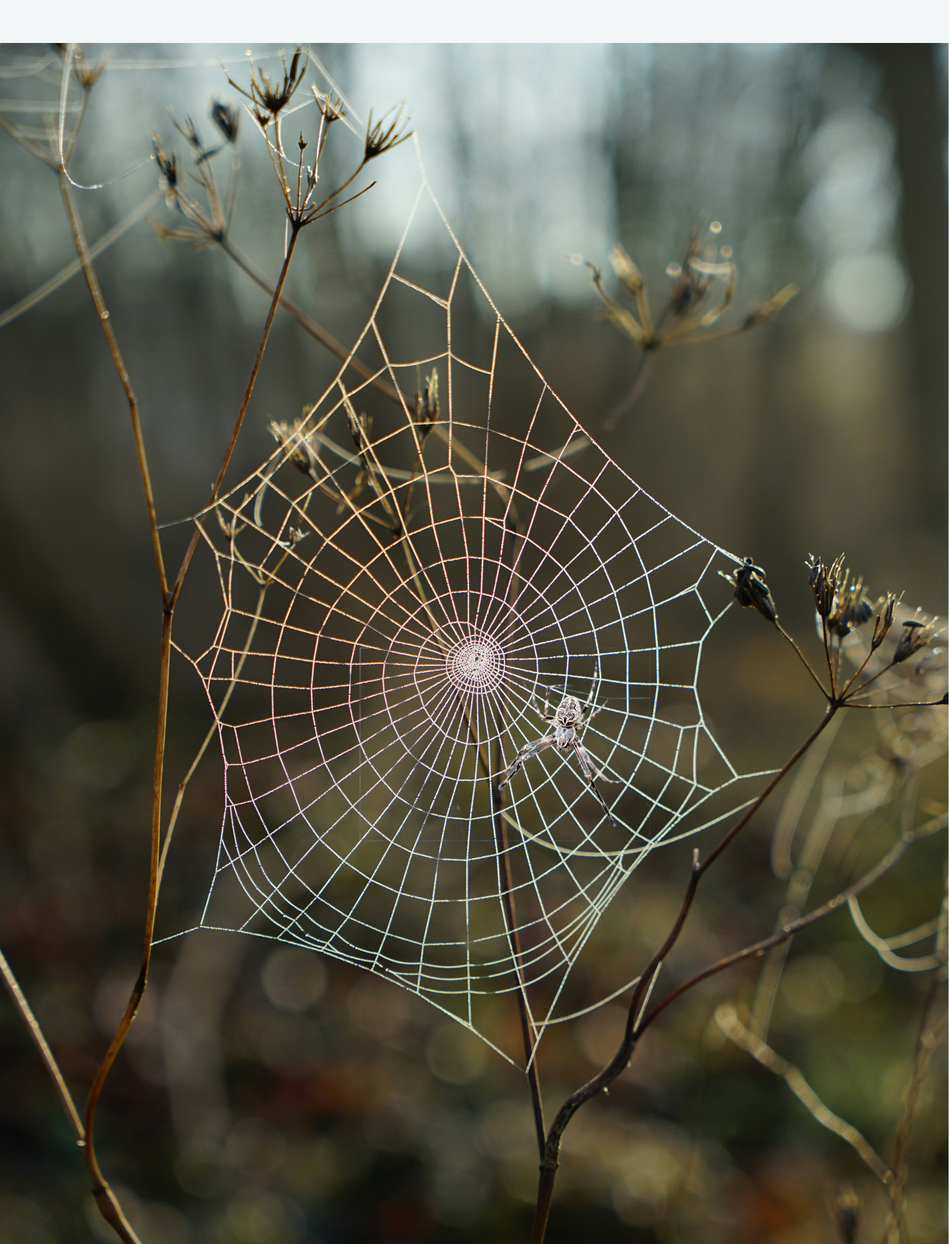
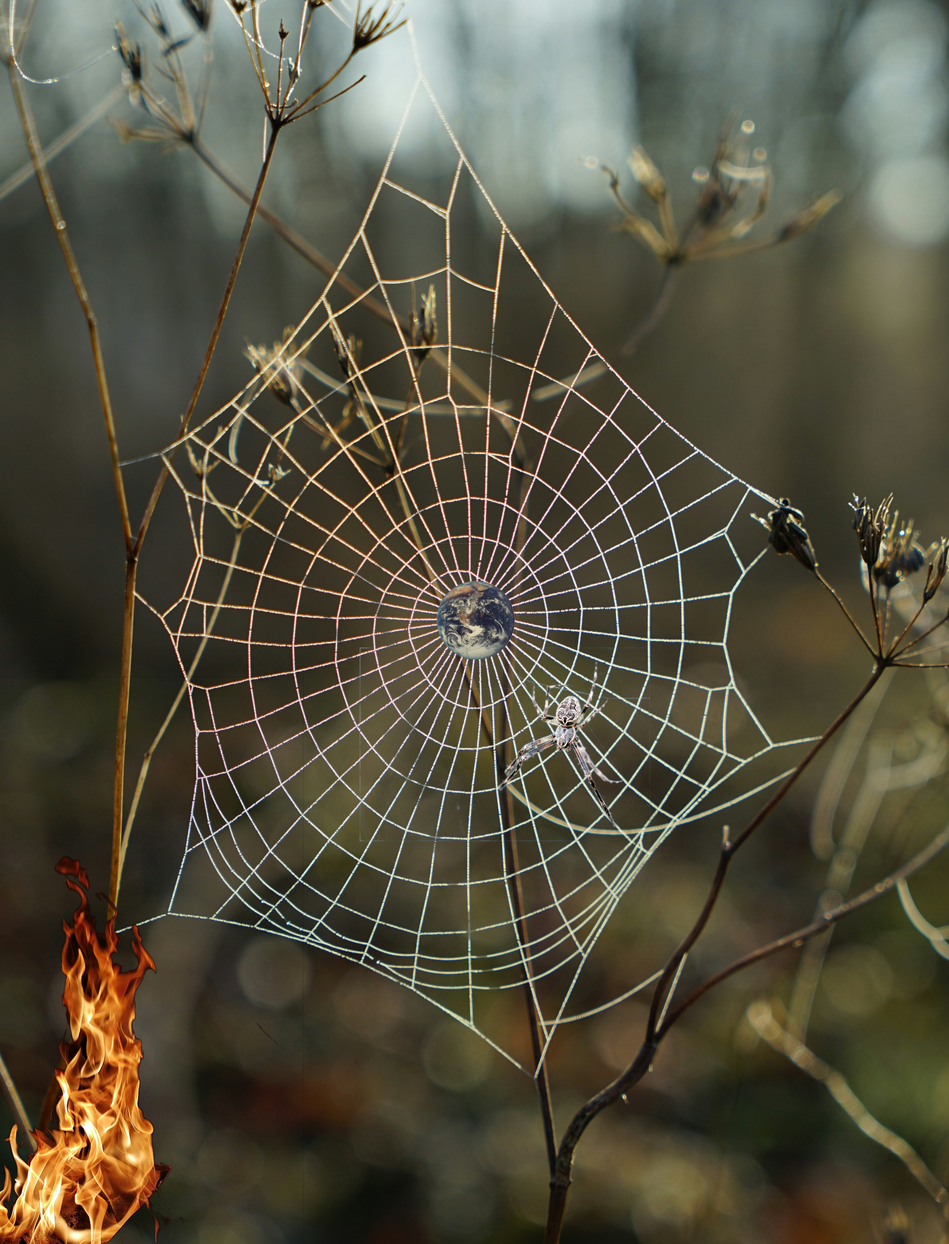
Add Fire Picture
Add fire picture, update progress pic and screenshot, update readme with source of fire pic.

diff --git a/README.md b/README.md
@@ -5,4 +5,4 @@
 |Spiderweb Photo by Robert Anasch|[Unsplash](https://unsplash.com/photos/shallow-focus-photography-of-spider-web-h7dl6upIOOs)|[Unsplash License](https://unsplash.com/license)|
 |Spider Photo by Dev Leigh|[Unsplash](https://unsplash.com/photos/closeup-photography-of-brown-spider-aLDuLRjZknE)|[Unsplash License](https://unsplash.com/license)|
 |Earth Photo from New York Public Library|[Unsplash](https://unsplash.com/photos/planet-earth-close-up-photography-yEauzeZU6xo)|[Unsplash License](https://unsplash.com/license)|
-||||
+|Fire Photo by Chirag Nayak|[Unsplash](https://unsplash.com/photos/red-flame-iZwQbx4T8bQ)|[Unsplash License](https://unsplash.com/license)|
